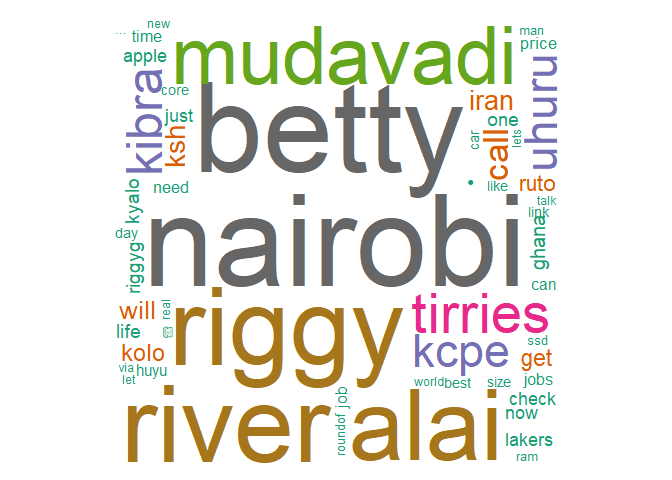
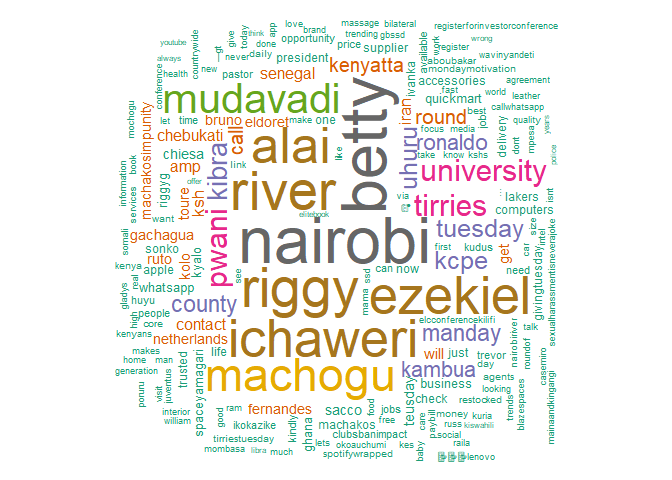
changes

diff --git a/sentiment-A.md b/sentiment-A.md
@@ -168,8 +168,16 @@ library(wordcloud)
 ``` r
 w <- sort(rowSums(tdm), decreasing = T)
 set.seed(222)
-wordcloud(words = names(w), freq = w, max.words = 150, random.order = F, min.freq = 5, 
-          colors = brewer.pal(8, "Dark2"), scale = c(8, .4))
+wordcloud(
+  words = names(w), 
+  freq = w, 
+  max.words = 200, 
+  random.order = F, 
+  min.freq = 5,
+  colors = brewer.pal(8, "Dark2"), 
+  scale = c(4, .4),
+  rot.per = 0.3
+)
 ```
 
 ![](sentiment-A_files/figure-gfm/unnamed-chunk-1-2.png)<!-- -->
